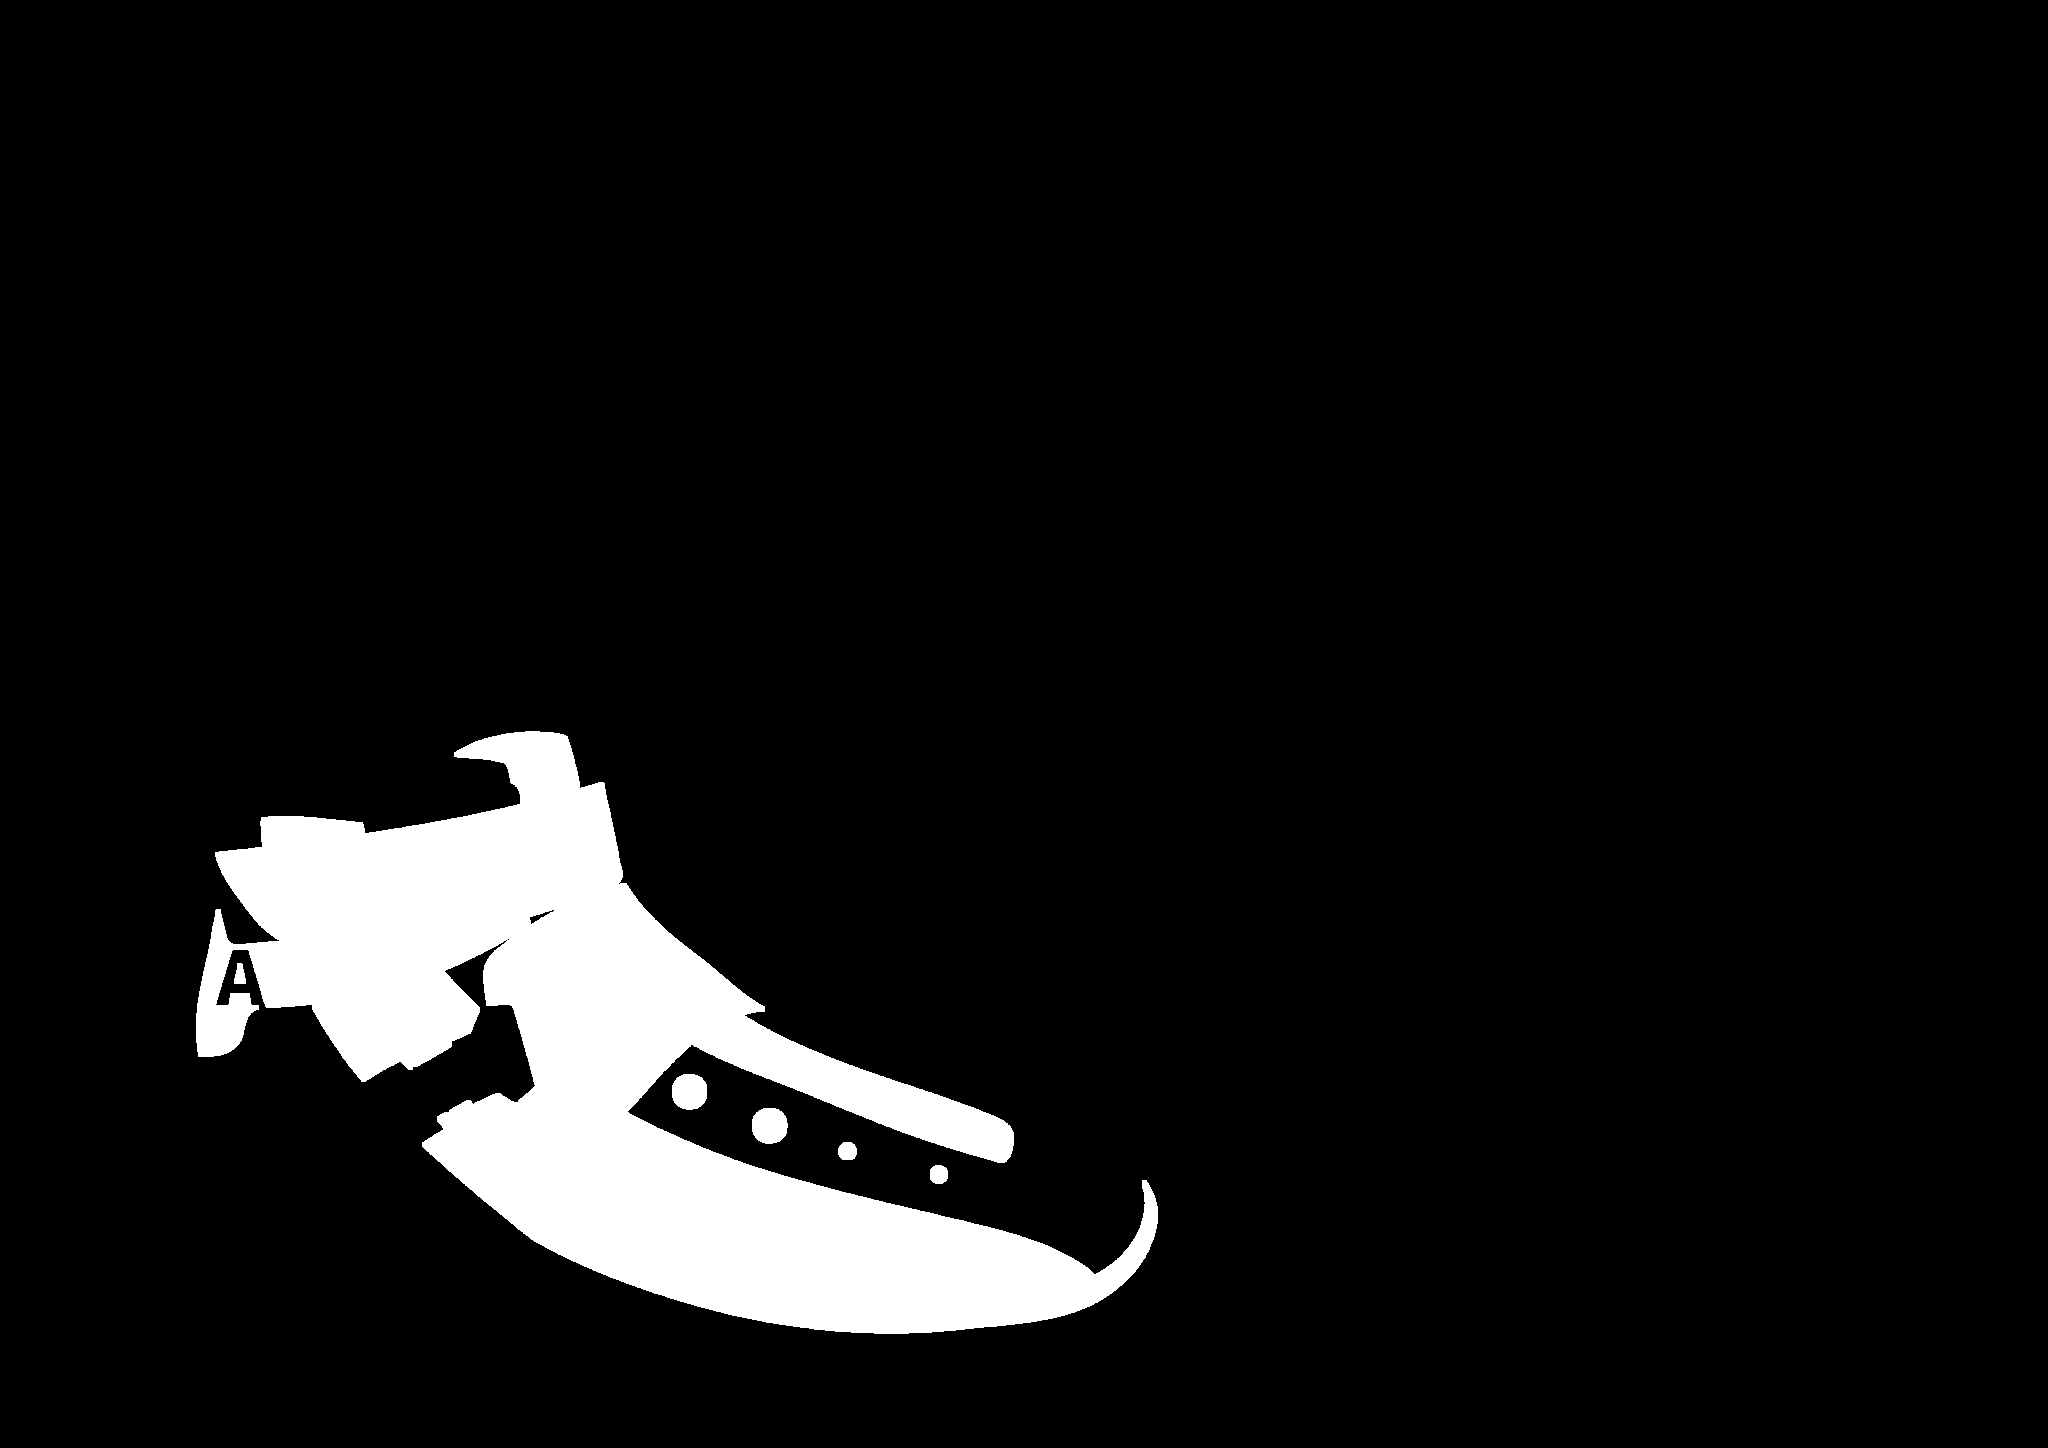
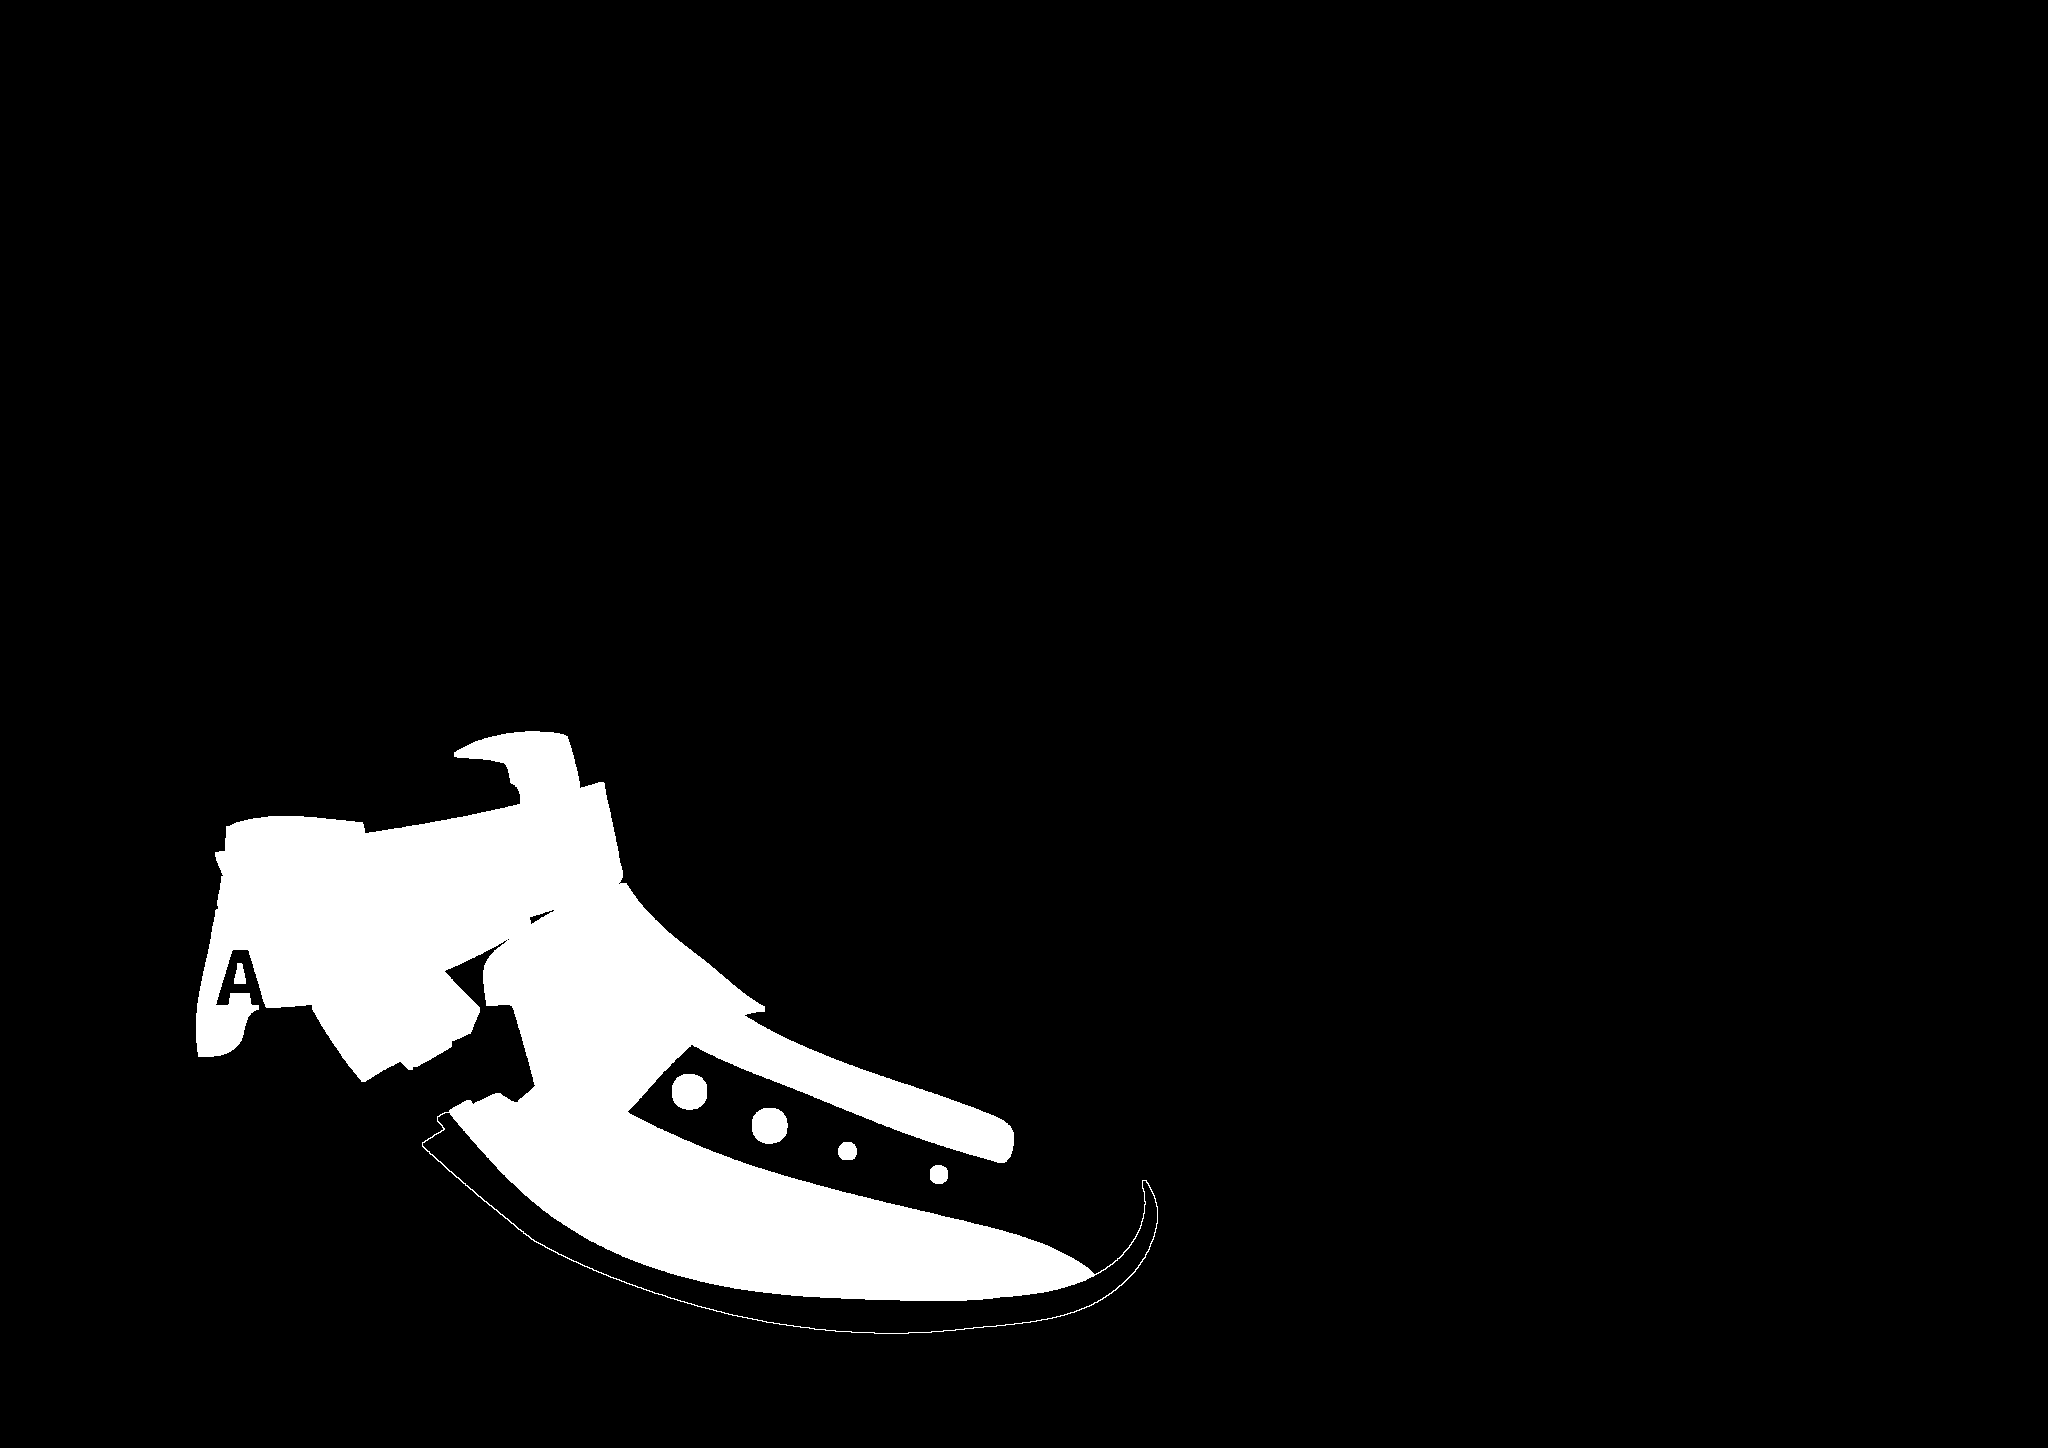
Fix slalom heel color rendering

Changed region(s): [[0.1875, 0.7769, 0.5625, 0.9323], [0.0938, 0.6215, 0.125, 0.6526], [0.0938, 0.5594, 0.125, 0.5905]]

diff --git a/app.js b/app.js
@@ -1156,20 +1156,37 @@ function sheetMaskUnderlay(model, zone) {
 }
 
 function sheetFixedOverlays() {
-  if (state.model !== "speed") {
-    return "";
+  if (state.model === "speed") {
+    return `
+      <g id="fixed-overlays" pointer-events="none">
+        ${speedFixedStrapOverlay()}
+      </g>
+    `;
   }
-  return `
-    <g id="fixed-overlays" pointer-events="none">
-      ${speedFixedStrapOverlay()}
-    </g>
-  `;
+
+  if (state.model === "slalom") {
+    return `
+      <g id="slalom-correction-overlays" pointer-events="none">
+        ${slalomAHeelCorrectionOverlay()}
+      </g>
+    `;
+  }
+
+  return "";
 }
 
 function speedFixedStrapOverlay() {
   return `
     <image id="speed-fixed-strap-overlay" href="${escapeAttr(fixedOverlayHref("strap"))}" x="0" y="0" width="${SHEET_WIDTH}" height="${SHEET_HEIGHT}" preserveAspectRatio="none"></image>
   `;
+}
+
+function slalomAHeelCorrectionOverlay() {
+  const fill = bootZoneFill("A");
+  if (fill === "transparent") {
+    return "";
+  }
+  return `<rect x="0" y="0" width="${SHEET_WIDTH}" height="${SHEET_HEIGHT}" fill="${fill}" mask="url(#slalom-A-heel-correction-mask)"/>`;
 }
 
 function speedCarbonUnderlay() {
@@ -1187,6 +1204,7 @@ function slalomSheetUnderlays() {
   return `
     <g id="slalom-zone-underlays">
       ${slalomMaskUnderlay("A")}
+      ${slalomFixedRimUnderlay()}
       ${slalomMaskUnderlay("B")}
     </g>
   `;
@@ -1194,6 +1212,10 @@ function slalomSheetUnderlays() {
 
 function slalomMaskUnderlay(zone) {
   return sheetMaskUnderlay("slalom", zone);
+}
+
+function slalomFixedRimUnderlay() {
+  return `<rect x="0" y="0" width="${SHEET_WIDTH}" height="${SHEET_HEIGHT}" fill="#302c2b" mask="url(#slalom-fixed-rim-mask)"/>`;
 }
 
 function sheetValueOverlays() {
@@ -1317,7 +1339,7 @@ function materialPatternDefs() {
 
 function sheetMaskDefs() {
   const model = state.model;
-  return activeZones()
+  const zoneMasks = activeZones()
     .map(
       (zone) => `
         <mask id="${model}-mask-${zone}" maskUnits="userSpaceOnUse" x="0" y="0" width="${SHEET_WIDTH}" height="${SHEET_HEIGHT}" mask-type="luminance" style="mask-type: luminance;">
@@ -1326,6 +1348,20 @@ function sheetMaskDefs() {
       `,
     )
     .join("");
+
+  if (model !== "slalom") {
+    return zoneMasks;
+  }
+
+  return `
+    ${zoneMasks}
+    <mask id="slalom-fixed-rim-mask" maskUnits="userSpaceOnUse" x="0" y="0" width="${SHEET_WIDTH}" height="${SHEET_HEIGHT}" mask-type="luminance" style="mask-type: luminance;">
+      <image href="${escapeAttr(slalomFixedRimMaskHref())}" x="0" y="0" width="${SHEET_WIDTH}" height="${SHEET_HEIGHT}" preserveAspectRatio="none"></image>
+    </mask>
+    <mask id="slalom-A-heel-correction-mask" maskUnits="userSpaceOnUse" x="0" y="0" width="${SHEET_WIDTH}" height="${SHEET_HEIGHT}" mask-type="luminance" style="mask-type: luminance;">
+      <image href="${escapeAttr(slalomAHeelCorrectionMaskHref())}" x="0" y="0" width="${SHEET_WIDTH}" height="${SHEET_HEIGHT}" preserveAspectRatio="none"></image>
+    </mask>
+  `;
 }
 
 function maskImageHref(model, zone) {
@@ -1334,6 +1370,14 @@ function maskImageHref(model, zone) {
 
 function fixedOverlayHref(name) {
   return new URL(`images/generated-masks/speed-fixed-${name}.png`, window.location.href).href;
+}
+
+function slalomFixedRimMaskHref() {
+  return new URL("images/generated-masks/slalom-fixed-rim.png", window.location.href).href;
+}
+
+function slalomAHeelCorrectionMaskHref() {
+  return new URL("images/generated-masks/slalom-A-heel-correction.png", window.location.href).href;
 }
 
 function fieldLine(label, value, x, y, width, suffix = "") {
@@ -1519,6 +1563,10 @@ async function inlineSvgImages(svg) {
   activeZones().forEach((zone) => urls.add(maskImageHref(state.model, zone)));
   if (state.model === "speed") {
     urls.add(fixedOverlayHref("strap"));
+  }
+  if (state.model === "slalom") {
+    urls.add(slalomFixedRimMaskHref());
+    urls.add(slalomAHeelCorrectionMaskHref());
   }
 
   const replacements = await Promise.all(